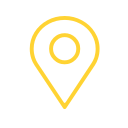
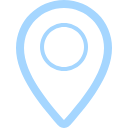
add static of serach component

Changed region(s): [[0.125, 0.0, 0.875, 1.0]]

diff --git a/src/components/Search/Search.tsx b/src/components/Search/Search.tsx
@@ -1,30 +1,18 @@
 import { ComponentType } from 'react';
 import Taro, { Component } from '@tarojs/taro';
-import { View, Text } from '@tarojs/components';
+import { View, Text, Input, Image } from '@tarojs/components';
 import { observer, inject } from '@tarojs/mobx';
 import { IMeta, IWeather } from '../../types/weather';
-import ContentWrapper from '../ContentWrapper/ContentWrapper';
+import { IWeatherProps } from '../../types/weather';
+import cs from 'classnames';
 const styles = require('./Search.module.scss');
-
-type PageStateProps = {
-  weatherStore: {
-    weatherData: IWeather;
-    metaData: IMeta;
-    curSkyCode: string;
-    getWeatherById: Function;
-    getRegion: Function;
-    getPosition: Function;
-    getWoeid: Function;
-  };
-};
-
-interface Search {
-  props: PageStateProps;
-}
+const search = require('../../assets/images/search.png');
+const location = require('../../assets/images/location.png');
+const history = require('../../assets/images/history.png');
 
 @inject('weatherStore')
 @observer
-class Search extends Component {
+class Search extends Component<IWeatherProps, {}> {
   componentWillMount() {}
 
   componentDidMount() {}
@@ -37,15 +25,53 @@ class Search extends Component {
 
   render() {
     const {
-      weatherStore: { weatherData, curSkyCode }
+      weatherStore: { showSearch },
     } = this.props;
 
+    const list = Array(4).map(vaule => (
+      <View className={styles.history_item}>
+        <Text>Sydney, NSW, Australia</Text>
+        <View className={styles.cancel_icon} />
+      </View>
+    ));
+
     return (
-      <ContentWrapper title="Search">
-        <View className={styles.summary_wrapper}>
-          <Text>test</Text>
+      <View
+        className={cs(
+          styles.search_wrapper,
+          !showSearch ? styles.hide_search_wrapper : '',
+        )}
+      >
+        <View className={cs(styles.container, styles.search_container)}>
+          <Image src={search} className={cs(styles.icon, styles.search_icon)} />
+          <Input
+            className={styles.input}
+            type='text'
+            placeholder='Enter City or ZIP code'
+            focus
+          />
+          <Text>Cancel</Text>
         </View>
-      </ContentWrapper>
+        <View
+          className={cs(styles.container, styles.detech_my_location_container)}
+        >
+          <Image
+            src={location}
+            className={cs(styles.icon, styles.location_icon)}
+          />
+          <Text>Detach my location</Text>
+        </View>
+        <View className={styles.history}>
+          <View className={cs(styles.container, styles.history_container)}>
+            <Image
+              src={history}
+              className={cs(styles.icon, styles.history_icon)}
+            />
+            <Text>History</Text>
+          </View>
+          <View className={styles.history_list}>{list}</View>
+        </View>
+      </View>
     );
   }
 }

diff --git a/src/components/Summary/Summary.tsx b/src/components/Summary/Summary.tsx
@@ -7,6 +7,7 @@ import { IWeatherProps } from '../../types/weather';
 import { hourTo12, getImageUrl } from '../../utils/util';
 const flickr = require('../../assets/images/flickr.png');
 const arrow = require('../../assets/images/arrow.png');
+const location_yellow = require('../../assets/images/location_yellow.png');
 const styles = require('./Summary.module.scss');
 
 @inject('weatherStore')
@@ -18,10 +19,11 @@ class Summary extends Component<IWeatherProps, {}> {
         weatherData,
         curSkyCode,
         handleTemperatureType,
+        handleSearchChange,
         isF,
         renderTrigger,
-        updateKey
-      }
+        updateKey,
+      },
     } = this.props;
 
     renderTrigger(updateKey);
@@ -34,9 +36,17 @@ class Summary extends Component<IWeatherProps, {}> {
     return (
       <View className={styles.summary_wrapper}>
         <View className={styles.region_summary}>
-          <Text className={styles.city}>
-            {weatherData.location.displayName}
-          </Text>
+          <View className={styles.header}>
+            <Text className={styles.city}>
+              {weatherData.location.displayName}
+            </Text>
+            <Image
+              className={styles.location_icon}
+              src={location_yellow}
+              onClick={() => handleSearchChange()}
+            />
+          </View>
+
           <Text className={styles.country}>
             {weatherData.location.countryName}
           </Text>
@@ -78,7 +88,7 @@ class Summary extends Component<IWeatherProps, {}> {
               <View
                 className={cs(
                   styles.temperature_type_btn,
-                  !isF ? styles.is_not_f : ''
+                  !isF ? styles.is_not_f : '',
                 )}
                 onClick={() => handleTemperatureType(true)}
               >
@@ -87,7 +97,7 @@ class Summary extends Component<IWeatherProps, {}> {
               <View
                 className={cs(
                   styles.temperature_type_btn,
-                  isF ? styles.is_not_f : ''
+                  isF ? styles.is_not_f : '',
                 )}
                 onClick={() => handleTemperatureType(false)}
               >

diff --git a/src/components/Search/Search.module.scss b/src/components/Search/Search.module.scss
@@ -1,0 +1,94 @@
+@import '../../assets/styles/variables.scss';
+@import '../../assets/styles/mixins.scss';
+
+.search_wrapper {
+  position: fixed;
+  bottom: 0;
+  z-index: 9999;
+  width: 100%;
+  height: 80%;
+  font-size: 32px;
+  background: $black;
+  transform: translateY(0);
+  transition: 350ms all linear;
+
+  .icon {
+    width: 40px;
+    height: 40px;
+  }
+
+  .container {
+    display: flex;
+    align-items: center;
+    padding: 20px 28px;
+    font-size: 28px;
+  }
+
+  .search_container {
+    background: rgba($white, .12);
+
+    .input {
+      margin-left: 20px;
+      margin-right: 60px;
+      padding: 6px;
+      width: 65%;
+      font-size: 28px;
+      background: rgba($white, .3);
+      text-shadow: none;
+    }
+  }
+
+  .detech_my_location_container {
+    padding: 28px;
+
+    .location_icon {
+      margin-right: 20px;
+    }
+  }
+
+  .history {
+    height: 880px;
+    overflow-y: auto;
+
+    .history_container {
+      @include border_1px('bottom', rgba($white, .7), 0);
+
+      .history_icon {
+        margin-right: 20px;
+      }
+    }
+
+    .history_item {
+      display: flex;
+      justify-content: space-between;
+      padding: 28px;
+      @include border_1px('bottom', rgba($white, .3), 0);
+
+      .cancel_icon {
+        position: relative;
+        width: 40px;
+        height: 40px;
+        background: rgba(255, 51, 60, .8);
+        border-radius: 50%;
+
+        &::before {
+          position: absolute;
+          content: '';
+          top: 0;
+          right: 0;
+          bottom: 0;
+          left: 0;
+          margin: auto;
+          width: 28px;
+          height: 4px;
+          background: $white;
+        }
+      }
+    }
+  }
+}
+
+.hide_search_wrapper {
+  transform: translateY(120%);
+  transition: 350ms all linear;
+}

diff --git a/src/pages/index/index.tsx b/src/pages/index/index.tsx
@@ -33,19 +33,19 @@ class Index extends Component<IWeatherProps, IIndexStates> {
     navigationBarTitleText: '夏葉',
   };
 
+  componentWillMount() {
+    wx.cloud.init();
+  }
+
   componentDidShow(){
     const { weatherStore } = this.props;
     weatherStore.getLanguage();
   }
 
-  componentWillMount() {
-    wx.cloud.init();
-  }
-
-  componentDidMount() {
-    const { weatherStore } = this.props;
-    weatherStore.getLanguage();
-  }
+  // componentDidMount() {
+  //   const { weatherStore } = this.props;
+  //   weatherStore.getLanguage();
+  // }
 
   public onPullDownRefresh = () => {
     const { weatherStore } = this.props;
@@ -89,7 +89,7 @@ class Index extends Component<IWeatherProps, IIndexStates> {
         <Precipitation />
         <SunAndMoon />
         <Wind />
-        {/* <Search /> */}
+        <Search />
       </View>
     );
   }

diff --git a/src/store/weatherStore.ts b/src/store/weatherStore.ts
@@ -50,6 +50,8 @@ class WeatherStore {
 
   @observable public showModal = false;
 
+  @observable public showSearch = false;
+
 
   constructor() {
     this.weatherData = {
@@ -122,6 +124,7 @@ class WeatherStore {
     this.systemLanguage = '';
     this.widthBackgroudImageUrl = '';
     this.showModal = false;
+    this.showSearch = false;
   }
 
   @action
@@ -154,13 +157,18 @@ class WeatherStore {
     }
   }
 
+  @action
+  public handleSearchChange = () => {
+    this.showSearch = !this.showSearch;
+  }
+
   public getWeatherById = (woeid) => {
     setLoadingToast(true, '获取天气信息...');
     wx.cloud.callFunction({
       name: 'getWeatherById',
       data: {
-        woeid: '2151849',
-        lang: this.systemLanguage,
+        woeid,
+        lang: 'en-US',
       }
     }).then((res) => {
       runInAction(() => {

diff --git a/src/types/weather.ts b/src/types/weather.ts
@@ -7,6 +7,7 @@ export interface IWeatherProps {
     backgroudImageUrl: string;
     widthBackgroudImageUrl: string;
     showModal: false;
+    showSearch: false;
     updateKey: number;
     getLanguage: Function;
     getWeatherById: Function;
@@ -14,6 +15,7 @@ export interface IWeatherProps {
     getPosition: Function;
     handleTemperatureType: Function;
     renderTrigger: Function;
+    handleSearchChange: Function;
   };
 };
 

diff --git a/src/components/Summary/Summary.module.scss b/src/components/Summary/Summary.module.scss
@@ -84,11 +84,22 @@
     }
   }
 
+  .header {
+    display: flex;
+  }
+
   .region_summary {
     padding-top: 120px;
     margin-left: 20px;
 
-    .city,
+    .location_icon {
+      position: relative;
+      top: 8px;
+      margin-left: 20px;
+      width: 70px;
+      height: 70px;
+    }
+
     .country,
     .cur_time {
       display: block;
